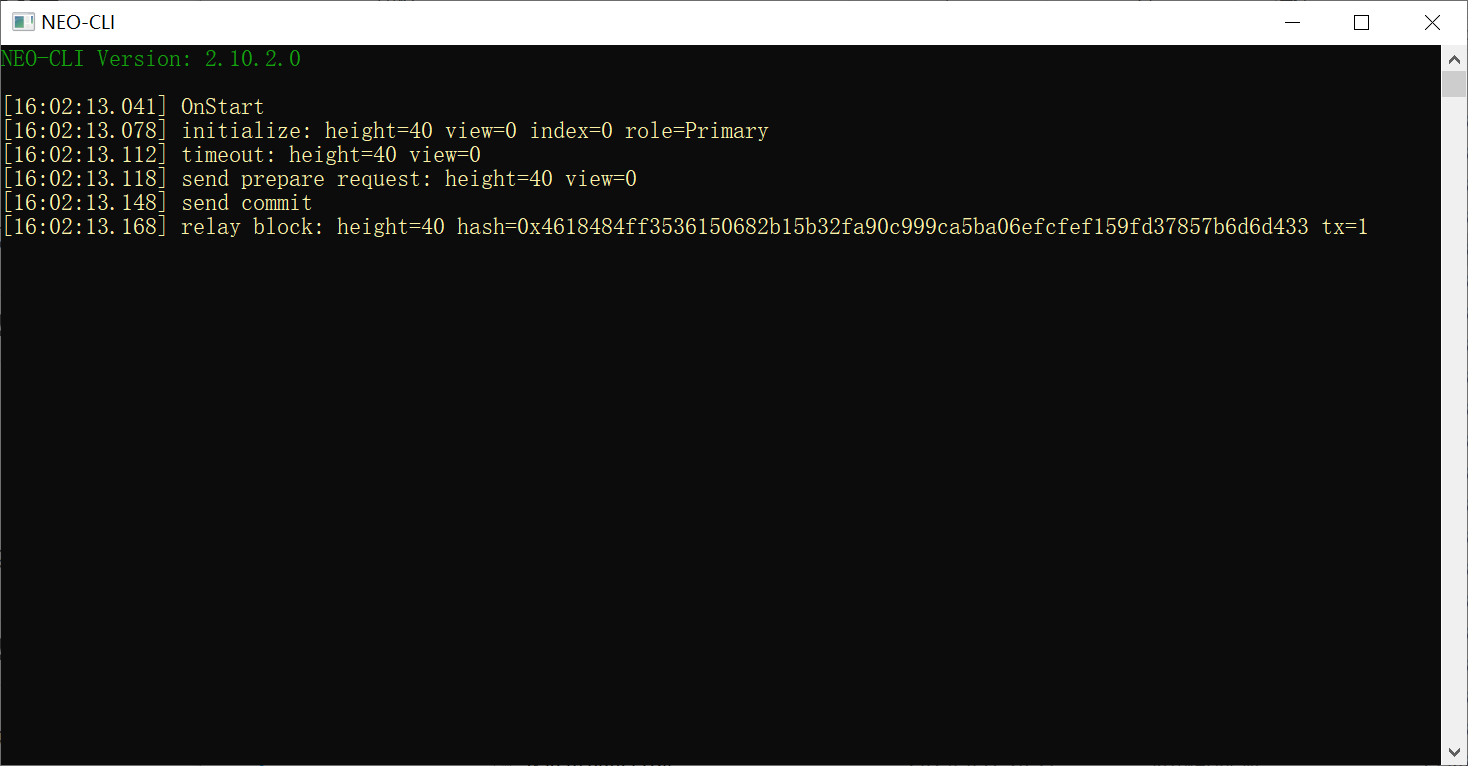
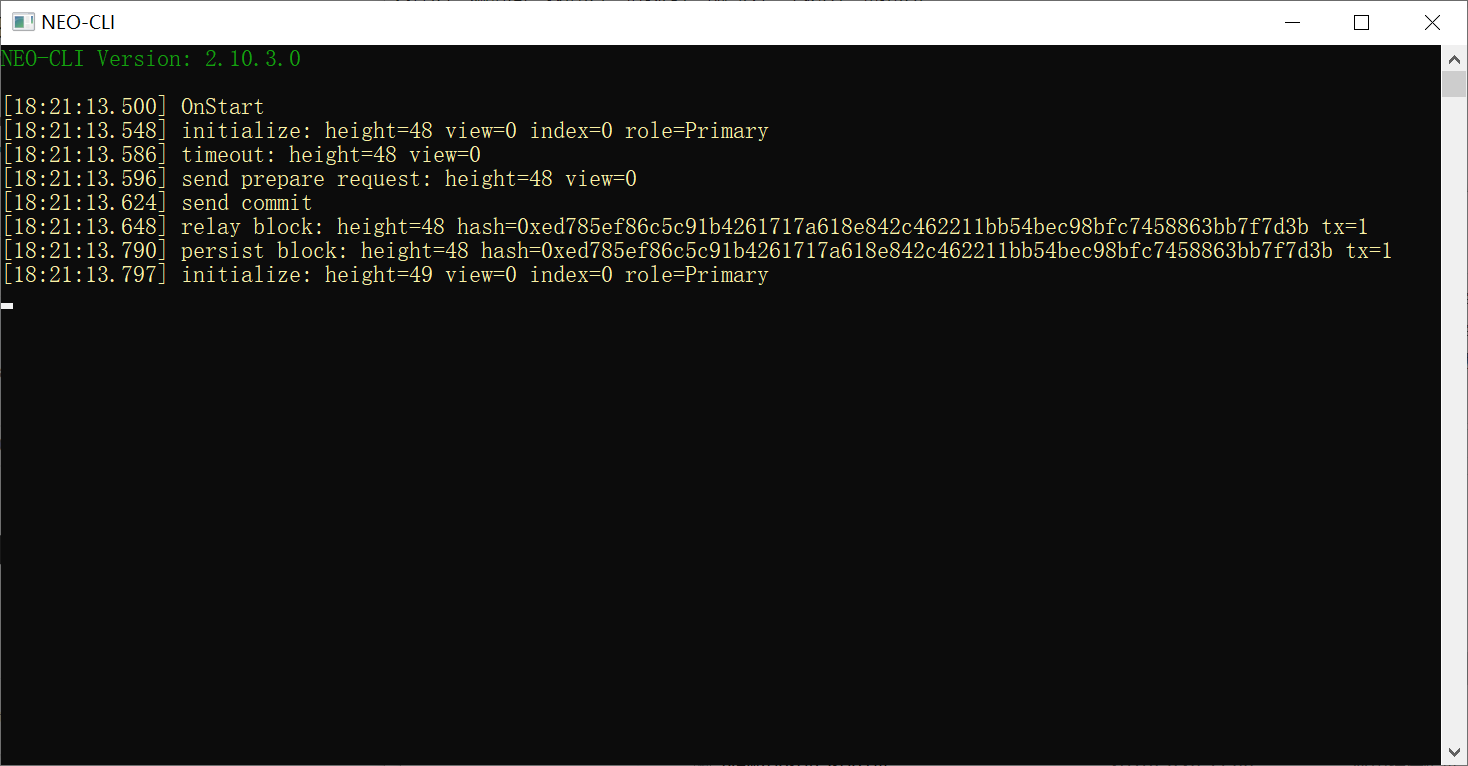
Update readme.md

diff --git a/README.md b/README.md
@@ -1,9 +1,66 @@
 # NEO-Private-Net
-NEO Private Net
+[中文说明](#zh)
+
+## Description
+
+The files in the project are configured private net that can be run directly after download. 
+
+The project contains a private net of Neo 2.x and Neo 3.0 preview.
+
+NEO and GAS have been claimed in the wallet `a.json`, with a password of `1` and block count is about 40.
+
+Version description:
+
+Neo 2.10.3
+
+	-- Neo CLI v2.10.3
+
+	-- Neo GUI v2.10.3
+
+Neo 3.0.0 Preview1
+
+	-- Neo CLI v3.0.0 Preview1
+
+## Environment
+
+Windows10
+
+Running neo-cli doesn't require additional environments
+
+Running neo-gui required to install [.NetFramework 4.7.2](https://www.microsoft.com/net/download/dotnet-framework-runtime)
+
+## Run
+
+Go to the neo-cli directory, double-click `neo-cli.exe`
+
+As shown in the figure:
+
+![](img/privatechain_demo.png)
+
+## Stop
+
+Just close the NEO-CLI window directly.
+
+<a name="zh"></a>
 
 ## 说明
 项目中的文件为已配置好的私有链，下载后可以直接运行。
-共识节点版本为 neo-cli 2.10.2，已提取 NEO 和 GAS，提到到钱包 `a.json` 中，密码为 `1`，区块高度为 40 左右。
+
+项目中包含 Neo 2.x 版本和 Neo 3.0 预览版的私有链。
+
+已提取 NEO 和 GAS，提到到钱包 `a.json` 中，密码为 `1`，区块高度为 40 左右。
+
+版本说明：
+
+Neo 2.10.3
+
+	-- Neo CLI v2.10.3
+
+	-- Neo GUI v2.10.3
+
+Neo 3.0.0 Preview1
+
+	-- Neo CLI v3.0.0 Preview1
 
 ## 运行环境
 
@@ -11,11 +68,11 @@ Windows10
 
 运行 neo-cli 不需要安装额外环境
 
-运行 neo-gui 需要安装 [.NetFramework 4.7.1](https://www.microsoft.com/net/download/dotnet-framework-runtime)
+运行 neo-gui 需要安装 [.NetFramework 4.7.2](https://www.microsoft.com/net/download/dotnet-framework-runtime)
 
 ## 启动私有链
 
-进入 neo-cli 2.10.2 目录，双击 `neo-cli.exe`
+进入 neo-cli 目录，双击 `neo-cli.exe`
 
 如图所示：
 
